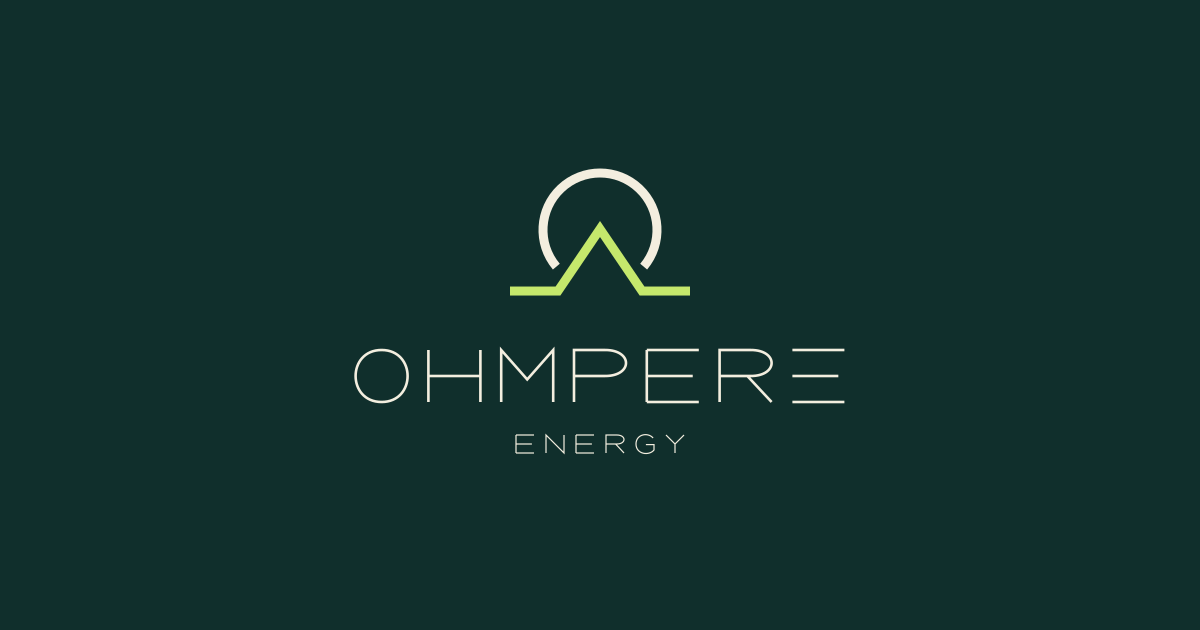
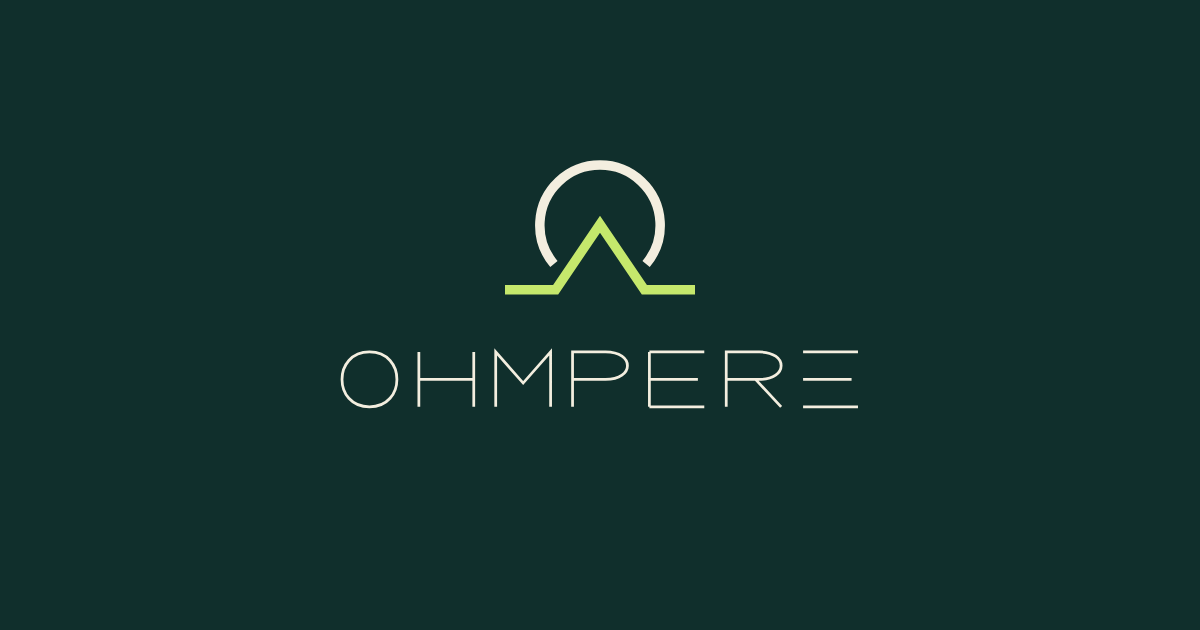
Rename to Ohmpere and change hero photo
Drop 'Energy' from the company name, logos and share image.
Use a Pexels photo of a Black driver in the hero.

Claude-Session: https://claude.ai/code/session_01Vm9GDRFmthjwMpzehigrD9

diff --git a/index.html b/index.html
@@ -3,14 +3,14 @@
 <head>
 <meta charset="utf-8">
 <meta name="viewport" content="width=device-width, initial-scale=1">
-<title>Ohmpere Energy | EV charging hubs where you already stop</title>
-<meta name="description" content="Ohmpere Energy designs, funds, installs and runs EV charging hubs at shopping centres, gyms, hotels and offices in Cape Town. Property owners pay nothing upfront.">
+<title>Ohmpere | EV charging hubs where you already stop</title>
+<meta name="description" content="Ohmpere designs, funds, installs and runs EV charging hubs at shopping centres, gyms, hotels and offices in Cape Town. Property owners pay nothing upfront.">
 <link rel="canonical" href="https://ohmpere.com/">
 <meta name="theme-color" content="#102F2C">
 
 <meta property="og:type" content="website">
-<meta property="og:site_name" content="Ohmpere Energy">
-<meta property="og:title" content="Ohmpere Energy | EV charging where you already stop">
+<meta property="og:site_name" content="Ohmpere">
+<meta property="og:title" content="Ohmpere | EV charging where you already stop">
 <meta property="og:description" content="Charging hubs at the shopping centres, gyms, hotels and offices you already visit. Built and run by Ohmpere, at no upfront cost to the property owner.">
 <meta property="og:url" content="https://ohmpere.com/">
 <meta property="og:image" content="https://ohmpere.com/assets/img/og.png">
@@ -26,6 +26,7 @@
 
 <link rel="preconnect" href="https://fonts.googleapis.com">
 <link rel="preconnect" href="https://fonts.gstatic.com" crossorigin>
+<link rel="preconnect" href="https://images.pexels.com">
 <link rel="preconnect" href="https://images.unsplash.com">
 <link href="https://fonts.googleapis.com/css2?family=Archivo:wdth,wght@62..125,100..900&display=swap" rel="stylesheet">
 <link rel="stylesheet" href="assets/css/site.css">
@@ -34,7 +35,7 @@
 {
   "@context": "https://schema.org",
   "@type": "Organization",
-  "name": "Ohmpere Energy",
+  "name": "Ohmpere",
   "url": "https://ohmpere.com",
   "logo": "https://ohmpere.com/assets/img/icons/icon-512.png",
   "email": "hello@ohmpere.com",
@@ -48,8 +49,8 @@
 
 <header class="site-header">
   <div class="wrap">
-    <a class="brand" href="#top" aria-label="Ohmpere Energy home">
-      <img src="assets/img/brand/logo-cream-lime.svg" width="850" height="170" alt="Ohmpere Energy">
+    <a class="brand" href="#top" aria-label="Ohmpere home">
+      <img src="assets/img/brand/logo-cream-lime.svg" width="850" height="170" alt="Ohmpere">
     </a>
     <button class="menu-toggle" type="button" aria-expanded="false" aria-controls="nav" aria-label="Open menu">
       <svg viewBox="0 0 26 26" fill="none" stroke="currentColor" stroke-width="2.5" aria-hidden="true"><path class="m1" d="M2 7H24M2 13H24M2 19H24"/></svg>
@@ -81,12 +82,12 @@
       </div>
       <figure class="hero-photo">
         <img
-          src="https://images.unsplash.com/photo-1671785120538-c24cbe823ccc?auto=format&fit=crop&w=1100&h=1240&q=72"
-          srcset="https://images.unsplash.com/photo-1671785120538-c24cbe823ccc?auto=format&fit=crop&w=640&h=720&q=70 640w,
-                  https://images.unsplash.com/photo-1671785120538-c24cbe823ccc?auto=format&fit=crop&w=1100&h=1240&q=72 1100w"
+          src="https://images.pexels.com/photos/6280711/pexels-photo-6280711.jpeg?auto=compress&cs=tinysrgb&fit=crop&w=1100&h=1240"
+          srcset="https://images.pexels.com/photos/6280711/pexels-photo-6280711.jpeg?auto=compress&cs=tinysrgb&fit=crop&w=640&h=720 640w,
+                  https://images.pexels.com/photos/6280711/pexels-photo-6280711.jpeg?auto=compress&cs=tinysrgb&fit=crop&w=1100&h=1240 1100w"
           sizes="(max-width: 860px) 100vw, 42vw"
           width="1100" height="1240"
-          alt="A driver waits beside her electric car while it charges outside an office building"
+          alt="A smiling driver checks her phone while leaning on her car"
           fetchpriority="high">
       </figure>
     </div>
@@ -592,7 +593,7 @@
 <footer class="site-footer">
   <div class="wrap">
     <div>
-      <img src="assets/img/brand/logo-cream-lime.svg" width="850" height="170" alt="Ohmpere Energy">
+      <img src="assets/img/brand/logo-cream-lime.svg" width="850" height="170" alt="Ohmpere">
       <p>EV charging hubs at the places you already go. Cape Town, Western Cape.</p>
     </div>
     <div>
@@ -613,8 +614,8 @@
       </ul>
     </div>
     <div class="legal">
-      <span>&copy; <span id="year">2026</span> Ohmpere Energy. All rights reserved.</span>
-      <span>Photos via Unsplash: JUICE, CHUTTERSNAP, Jamie Antoine, Patrick Ward.</span>
+      <span>&copy; <span id="year">2026</span> Ohmpere. All rights reserved.</span>
+      <span>Photos: Uriel Mont on Pexels; CHUTTERSNAP, Jamie Antoine and Patrick Ward on Unsplash.</span>
     </div>
   </div>
 </footer>

diff --git a/privacy.html b/privacy.html
@@ -3,8 +3,8 @@
 <head>
 <meta charset="utf-8">
 <meta name="viewport" content="width=device-width, initial-scale=1">
-<title>Privacy notice | Ohmpere Energy</title>
-<meta name="description" content="How Ohmpere Energy handles personal information under POPIA.">
+<title>Privacy notice | Ohmpere</title>
+<meta name="description" content="How Ohmpere handles personal information under POPIA.">
 <link rel="icon" type="image/svg+xml" href="assets/img/icons/favicon.svg">
 <link rel="apple-touch-icon" sizes="180x180" href="assets/img/icons/apple-touch-icon.png">
 <link rel="preconnect" href="https://fonts.googleapis.com">
@@ -15,17 +15,17 @@
 <body>
 <header class="site-header">
   <div class="wrap">
-    <a class="brand" href="./" aria-label="Ohmpere Energy home"><img src="assets/img/brand/logo-cream-lime.svg" width="850" height="170" alt="Ohmpere Energy"></a>
+    <a class="brand" href="./" aria-label="Ohmpere home"><img src="assets/img/brand/logo-cream-lime.svg" width="850" height="170" alt="Ohmpere"></a>
     <nav aria-label="Main"><a class="btn btn-lime" href="./#contact" style="min-height:40px;padding:.45em 1em;font-size:var(--step--1)">Contact us</a></nav>
   </div>
 </header>
 <main class="page on-paper">
   <div class="wrap">
     <h1>Privacy notice</h1>
-    <p>Ohmpere Energy respects your privacy and handles personal information in line with the Protection of Personal Information Act, 2013 (POPIA).</p>
+    <p>Ohmpere respects your privacy and handles personal information in line with the Protection of Personal Information Act, 2013 (POPIA).</p>
     <h2>What this website collects</h2>
     <p>Nothing directly. The contact form on this site does not send or store anything. It opens your own email app with your message filled in, and you decide whether to send it.</p>
-    <p>The site loads fonts from Google Fonts and photographs from Unsplash. Those services receive your IP address and browser details when the page loads, as with any website that uses them. We do not use analytics, advertising trackers or cookies.</p>
+    <p>The site loads fonts from Google Fonts and photographs from Unsplash and Pexels. Those services receive your IP address and browser details when the page loads, as with any website that uses them. We do not use analytics, advertising trackers or cookies.</p>
     <h2>When you email us</h2>
     <p>If you email us, we receive your name, email address and anything you include. We use it only to reply to you and to discuss the matter you raised, such as hosting a charging hub or hearing when a hub opens. We don't sell or share it for marketing.</p>
     <p>We keep correspondence for as long as we need it for that purpose or as the law requires, then delete it.</p>
@@ -36,8 +36,8 @@
 </main>
 <footer class="site-footer">
   <div class="wrap">
-    <div><img src="assets/img/brand/logo-cream-lime.svg" width="850" height="170" alt="Ohmpere Energy"><p>EV charging hubs at the places you already go. Cape Town, Western Cape.</p></div>
-    <div class="legal"><span>&copy; 2026 Ohmpere Energy. All rights reserved.</span><span><a href="./">Back to the home page</a></span></div>
+    <div><img src="assets/img/brand/logo-cream-lime.svg" width="850" height="170" alt="Ohmpere"><p>EV charging hubs at the places you already go. Cape Town, Western Cape.</p></div>
+    <div class="legal"><span>&copy; 2026 Ohmpere. All rights reserved.</span><span><a href="./">Back to the home page</a></span></div>
   </div>
 </footer>
 </body>

diff --git a/404.html b/404.html
@@ -3,7 +3,7 @@
 <head>
 <meta charset="utf-8">
 <meta name="viewport" content="width=device-width, initial-scale=1">
-<title>Page not found | Ohmpere Energy</title>
+<title>Page not found | Ohmpere</title>
 <link rel="icon" type="image/svg+xml" href="/assets/img/icons/favicon.svg">
 <link rel="preconnect" href="https://fonts.googleapis.com">
 <link rel="preconnect" href="https://fonts.gstatic.com" crossorigin>
@@ -12,7 +12,7 @@
 </head>
 <body class="on-teal" style="background:var(--teal);color:var(--cream)">
 <header class="site-header">
-  <div class="wrap"><a class="brand" href="/" aria-label="Ohmpere Energy home"><img src="/assets/img/brand/logo-cream-lime.svg" width="850" height="170" alt="Ohmpere Energy"></a></div>
+  <div class="wrap"><a class="brand" href="/" aria-label="Ohmpere home"><img src="/assets/img/brand/logo-cream-lime.svg" width="850" height="170" alt="Ohmpere"></a></div>
 </header>
 <main class="page">
   <div class="wrap">

diff --git a/assets/css/site.css b/assets/css/site.css
@@ -146,7 +146,7 @@ h3 { font-size: var(--step-1); font-stretch: var(--semi); font-variation-setting
 
 /* hero photo bleeds off the right edge on wide screens */
 .hero-photo { margin: 0; position: relative; align-self: stretch; min-height: 340px; }
-.hero-photo img { width: 100%; height: 100%; object-fit: cover; object-position: 60% 50%; background: var(--teal-mid); }
+.hero-photo img { width: 100%; height: 100%; object-fit: cover; object-position: 45% 22%; background: var(--teal-mid); }
 @media (min-width: 861px) {
   .hero-photo { margin-right: calc(-1 * (var(--gutter) + max(0px, (100vw - var(--max)) / 2))); margin-bottom: calc(-1 * clamp(40px, 7vh, 80px)); }
   .hero-photo img { position: absolute; inset: 0; }

diff --git a/assets/js/site.js b/assets/js/site.js
@@ -1,4 +1,4 @@
-/* Ohmpere Energy site behaviour: menu, charge estimator, contact form. */
+/* Ohmpere site behaviour: menu, charge estimator, contact form. */
 (function () {
   "use strict";
 

diff --git a/README.md b/README.md
@@ -1,6 +1,6 @@
 # ohmpere.com
 
-Website for Ohmpere Energy: a static site (plain HTML, CSS and JavaScript, no build step) served by GitHub Pages at https://ohmpere.com.
+Website for Ohmpere: a static site (plain HTML, CSS and JavaScript, no build step) served by GitHub Pages at https://ohmpere.com.
 
 ## Files
 
@@ -22,7 +22,7 @@ Edit a file on github.com (pencil icon) or locally, commit to `main`, and the si
 
 - **Contact email**: the site uses `hello@ohmpere.com`. It appears in `index.html` (search for `hello@`), `privacy.html` and the `data-to` attribute on the contact form. Create that address (or an alias) in iCloud custom email domain settings, or change it everywhere.
 - **Charge estimator assumptions** are constants at the top of the estimator block in `assets/js/site.js` (kWh per km, AC efficiency, DC average power). Keep the note under the estimator in `index.html` in step.
-- **Photos** are free-licence Unsplash images loaded from Unsplash's CDN, credited in the footer. Replace them with photos of real Ohmpere hubs once they exist.
+- **Photos** are free-licence Unsplash and Pexels images loaded from their CDNs, credited in the footer. Replace them with photos of real Ohmpere hubs once they exist.
 
 ## Fonts
 
